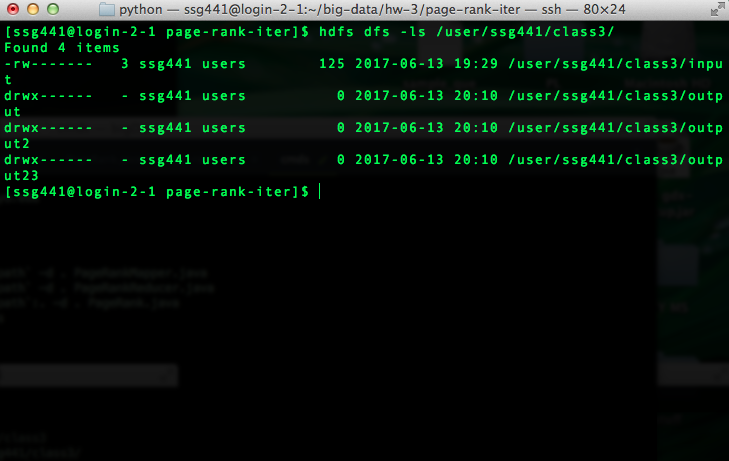
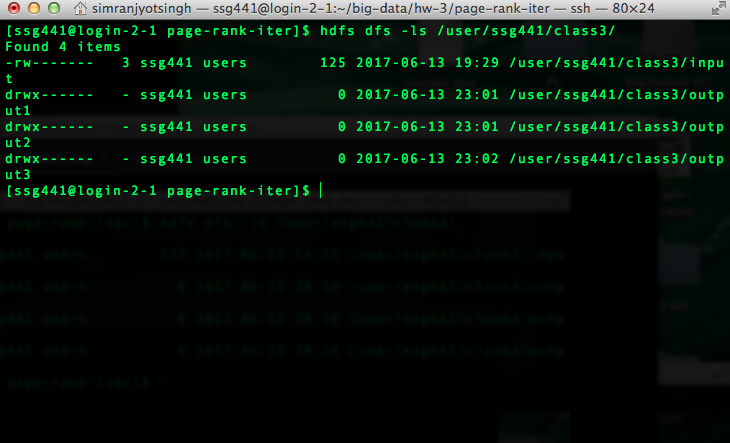
solution to homework-3 with 3 iterations

diff --git a/homework-3/page-rank-iter/PageRank.java b/homework-3/page-rank-iter/PageRank.java
@@ -12,29 +12,25 @@ public class PageRank {
             System.exit(-1);
         }       
         int i =1;
-        int forExit = 1;    
-        StringBuilder inputPath = new StringBuilder(args[0]);
-        StringBuilder outputPath = new StringBuilder(args[1]);
-        while(i++ <= 3){
+        int exit_code = 0;    
+        String inputPath = args[0];
+        String outputPath = args[1];
+        while(i <= 3){
             Job job = new Job();
             job.setJarByClass(PageRank.class);
             job.setJobName("Page Rank");
             job.setNumReduceTasks(1); // 1 Reduce task 
-            FileInputFormat.addInputPath(job, new Path(inputPath.toString()));
-            FileOutputFormat.setOutputPath(job, new Path(outputPath.toString()));
+            FileInputFormat.addInputPath(job, new Path(inputPath));
+            FileOutputFormat.setOutputPath(job, new Path(outputPath+String.valueOf(i)));
             job.setMapperClass(PageRankMapper.class);
             job.setReducerClass(PageRankReducer.class);
             job.setOutputKeyClass(Text.class);
             job.setOutputValueClass(Text.class);
-            while(true){
-                if(job.waitForCompletion(true)){
-                    forExit = 0;
-                    break;
-                }   
-            }
-            inputPath = new StringBuilder(outputPath.toString());
-            outputPath.append(String.valueOf(i));
+            exit_code = job.waitForCompletion(true) ? 0 : 1;
+            if(exit_code == 1) break;
+            inputPath = outputPath + String.valueOf(i);
+            i++;
         }
-        System.exit(forExit);
+        System.exit(exit_code);
     }
 }
